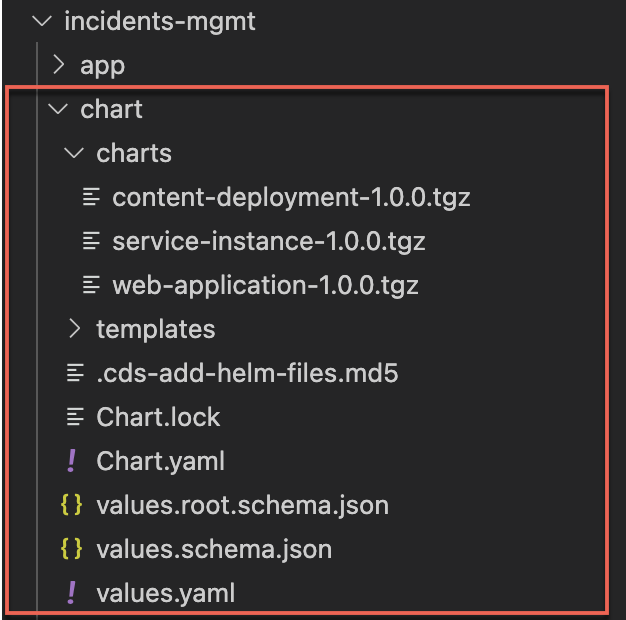
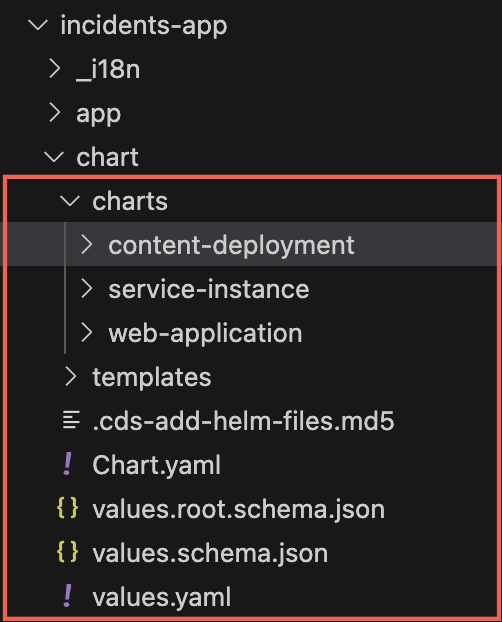
App rename for kyma

diff --git a/documentation/prerequisite-for-sample/prerquites-for-sample.md b/documentation/prerequisite-for-sample/prerquites-for-sample.md
@@ -292,16 +292,16 @@ It is recommended to use a technical user for this secret that has only read per
 ---
 
 ## Download and Setup the Project Locally
-1. In SAP Business Application Studio, right click on the project folder (`Incident-mgmt``) and choose **Download**.
+1. In SAP Business Application Studio, right click on the project folder (`Incidents-app``) and choose **Download**.
 ![Generated Charts1](./images/downloadproject.png)
 
-2. Extract the downloaded file `incident-mgmt.tar`.
+2. Extract the downloaded file `incidents-app.tar`.
 
 3. Open a command line window.
 
 4. Open the project in VS code:
   ```bash
-  code incidents-mgmt
+  code incidents-app
   ```
 
 ## Add Configurations for UI
@@ -426,7 +426,7 @@ Replace `YOUR_MTA_ID` in the above command with the `ID` from mta.yaml file.
 Run the below command to undeploy your application from SAP BTP Kyma Runtime
 
   ```sh
-  helm uninstall incidents-mgmt -n <YOUR_NAMESPACE>
+  helm uninstall incidents-app -n <YOUR_NAMESPACE>
   ```
 
 
